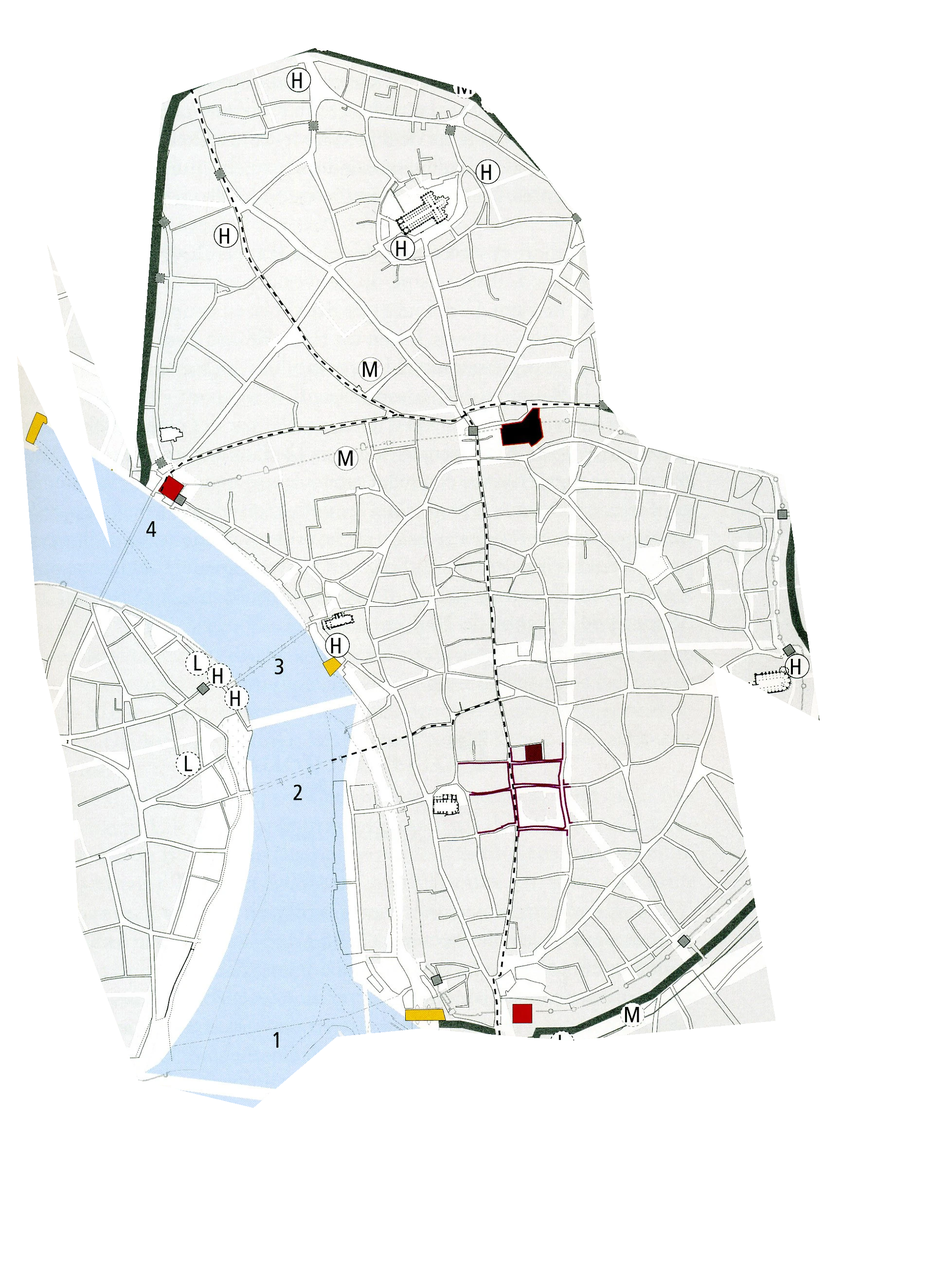
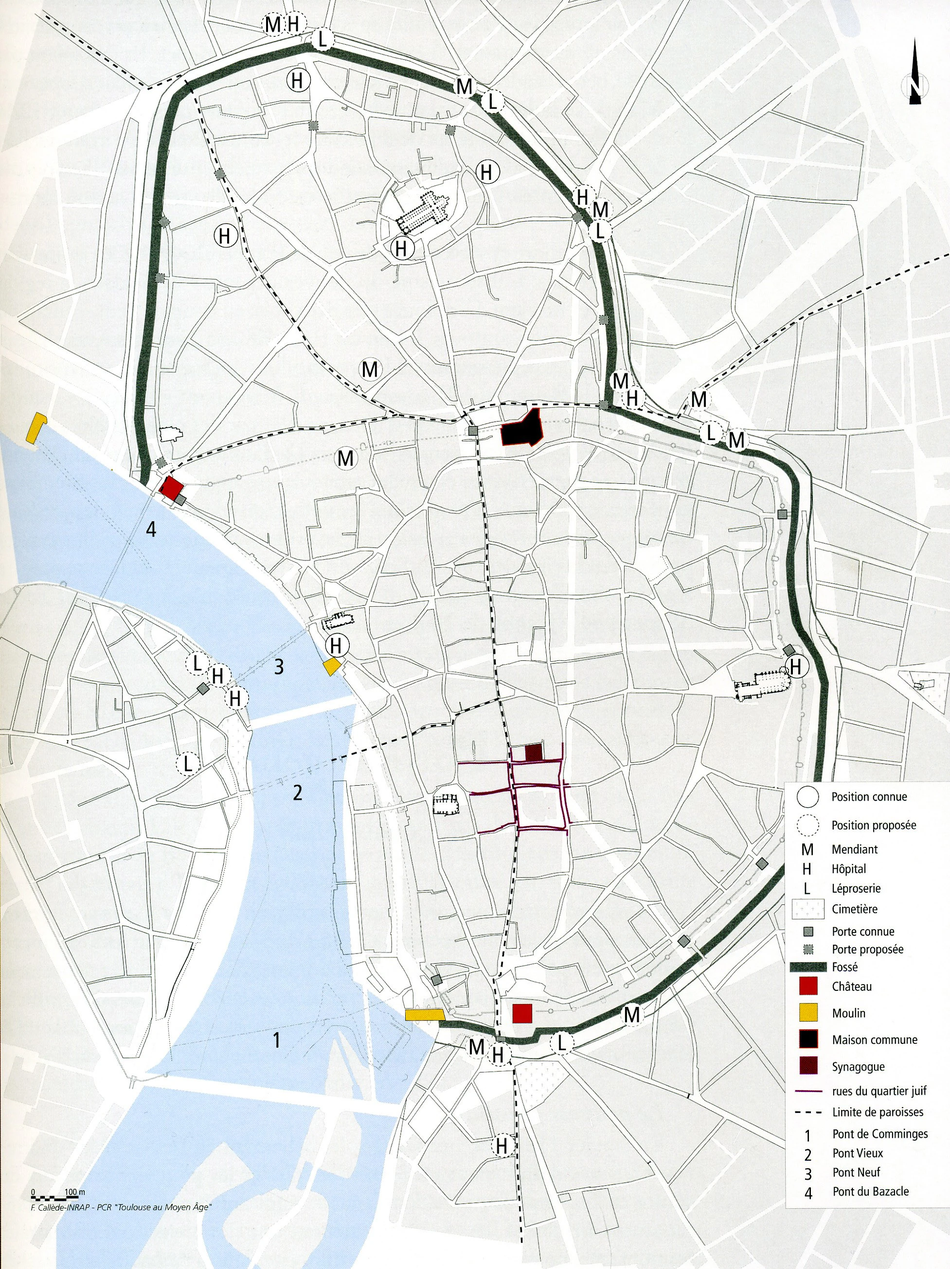
fix(map): preserve the complete medieval map and original legend

diff --git a/tests/medieval.spec.ts b/tests/medieval.spec.ts
@@ -2,6 +2,27 @@ import { test, expect } from "@playwright/test";
 
 import { prepareSharing, sharedView } from "./sharing";
 
+test("medieval raster preserves the whole source map including its legend", async ({ page }) => {
+  await page.goto("/openedition-13c/figure-06.jpg");
+  const result = await page.evaluate(async () => {
+    const image = new Image();
+    image.src = "/openedition-13c/map.webp";
+    await image.decode();
+    const canvas = document.createElement("canvas");
+    canvas.width = image.naturalWidth;
+    canvas.height = image.naturalHeight;
+    const context = canvas.getContext("2d")!;
+    context.drawImage(image, 0, 0);
+    const { data } = context.getImageData(0, 0, canvas.width, canvas.height);
+    let missingPixels = 0;
+    for (let index = 3; index < data.length; index += 4) {
+      if (data[index] !== 255) missingPixels++;
+    }
+    return missingPixels;
+  });
+  expect(result).toBe(0);
+});
+
 test("medieval reconstruction loads, identifies its period and restores shared settings", async ({
   page,
 }) => {

diff --git a/src/main.tsx b/src/main.tsx
@@ -1238,7 +1238,7 @@ function App() {
                   Calage affine sur Saint-Sernin, Saint-Étienne et la Dalbade. Un contrôle
                   indépendant à Saint-Pierre-des-Cuisines donne un écart d’environ{" "}
                   {medieval13c.checkPoints[0].errorMetres} m, sans garantir la précision ailleurs.
-                  La légende masquée laisse une zone transparente. Le repère 1250 dans les liens et
+                  La légende originale est conservée sur la carte. Le repère 1250 dans les liens et
                   la frise sert au classement ; la source date le plan du XIIIe siècle, sans année
                   précise.
                 </p>

diff --git a/scripts/build-openedition-13c.py b/scripts/build-openedition-13c.py
@@ -8,7 +8,7 @@ import math
 from pathlib import Path
 
 import numpy as np
-from PIL import Image, ImageDraw
+from PIL import Image
 
 ROOT = Path(__file__).resolve().parents[1]
 config = json.loads((ROOT / 'data/openedition-13c-control-points.json').read_text(encoding='utf-8'))
@@ -18,12 +18,7 @@ if not source.exists():
 assert hashlib.sha256(source.read_bytes()).hexdigest() == config['sha256']
 im = Image.open(source).convert('RGBA')
 scale = im.width / config['annotationWidth']
-mask = Image.new('L', im.size)
-draw = ImageDraw.Draw(mask)
-draw.polygon([(x * scale, y * scale) for x, y in config['mask']], fill=255)
-# The legend overlaps the reference cadastre; don't invent the hidden geometry.
-draw.rectangle((980 * scale, 982 * scale, im.width, 1540 * scale), fill=0)
-im.putalpha(mask)
+# Preserve the complete source drawing, including its original legend.
 points = [p for p in config['points'] if p['role'] == 'fit']
 a = np.linalg.solve(np.array([[*p['old'], 1] for p in points]), np.array([p['ref'] for p in points]))
 assert np.linalg.det(a[:2]) > 0

diff --git a/docs/openedition-medieval-layers.md b/docs/openedition-medieval-layers.md
@@ -72,9 +72,10 @@ Le calage affine utilise trois repères conservés (Saint-Sernin, portail ouest 
 Saint-Étienne, nef de la Dalbade). Saint-Pierre-des-Cuisines est réservé au
 contrôle indépendant : écart de 3,2 m, sans garantie à l'échelle de toute la ville.
 Configuration reproductible : `data/openedition-13c-control-points.json` ;
-préparation explicite : `scripts/build-openedition-13c.py`. La légende est masquée
-du rendu et consultable dans le dessin original ; aucun détail caché n'est
-reconstitué. Le fichier WebP préparé pèse environ 642 ko, l'original environ 1,33 Mo.
+préparation explicite : `scripts/build-openedition-13c.py`. Le rendu conserve
+l’intégralité du dessin source, avec sa légende originale et les quartiers hors
+de l’enceinte, sans découpage ni zone transparente.
+Le fichier WebP préparé pèse environ 1,1 Mo, l'original environ 1,33 Mo.
 
 ### Vérification de la provenance et des droits, 30 septembre 2026
 
